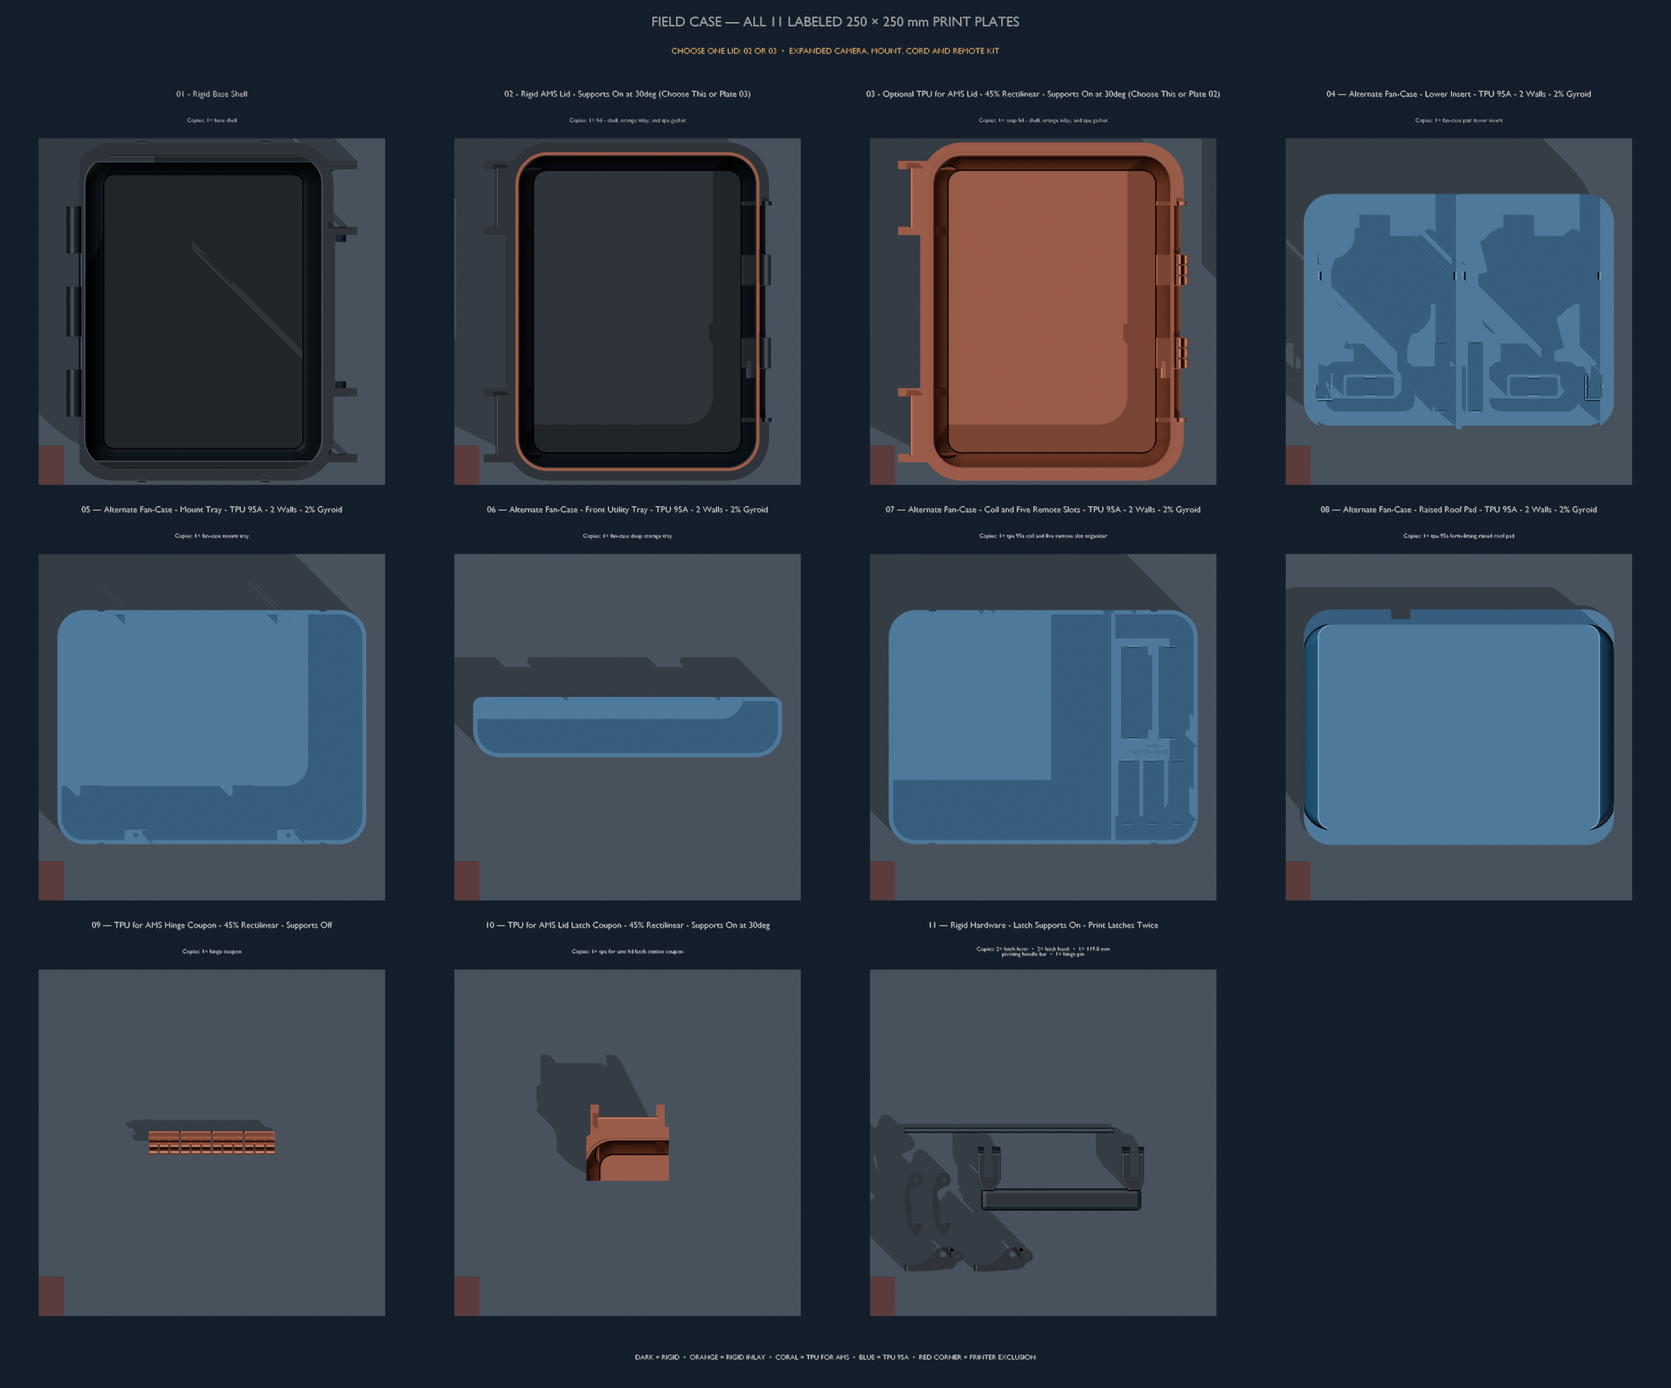
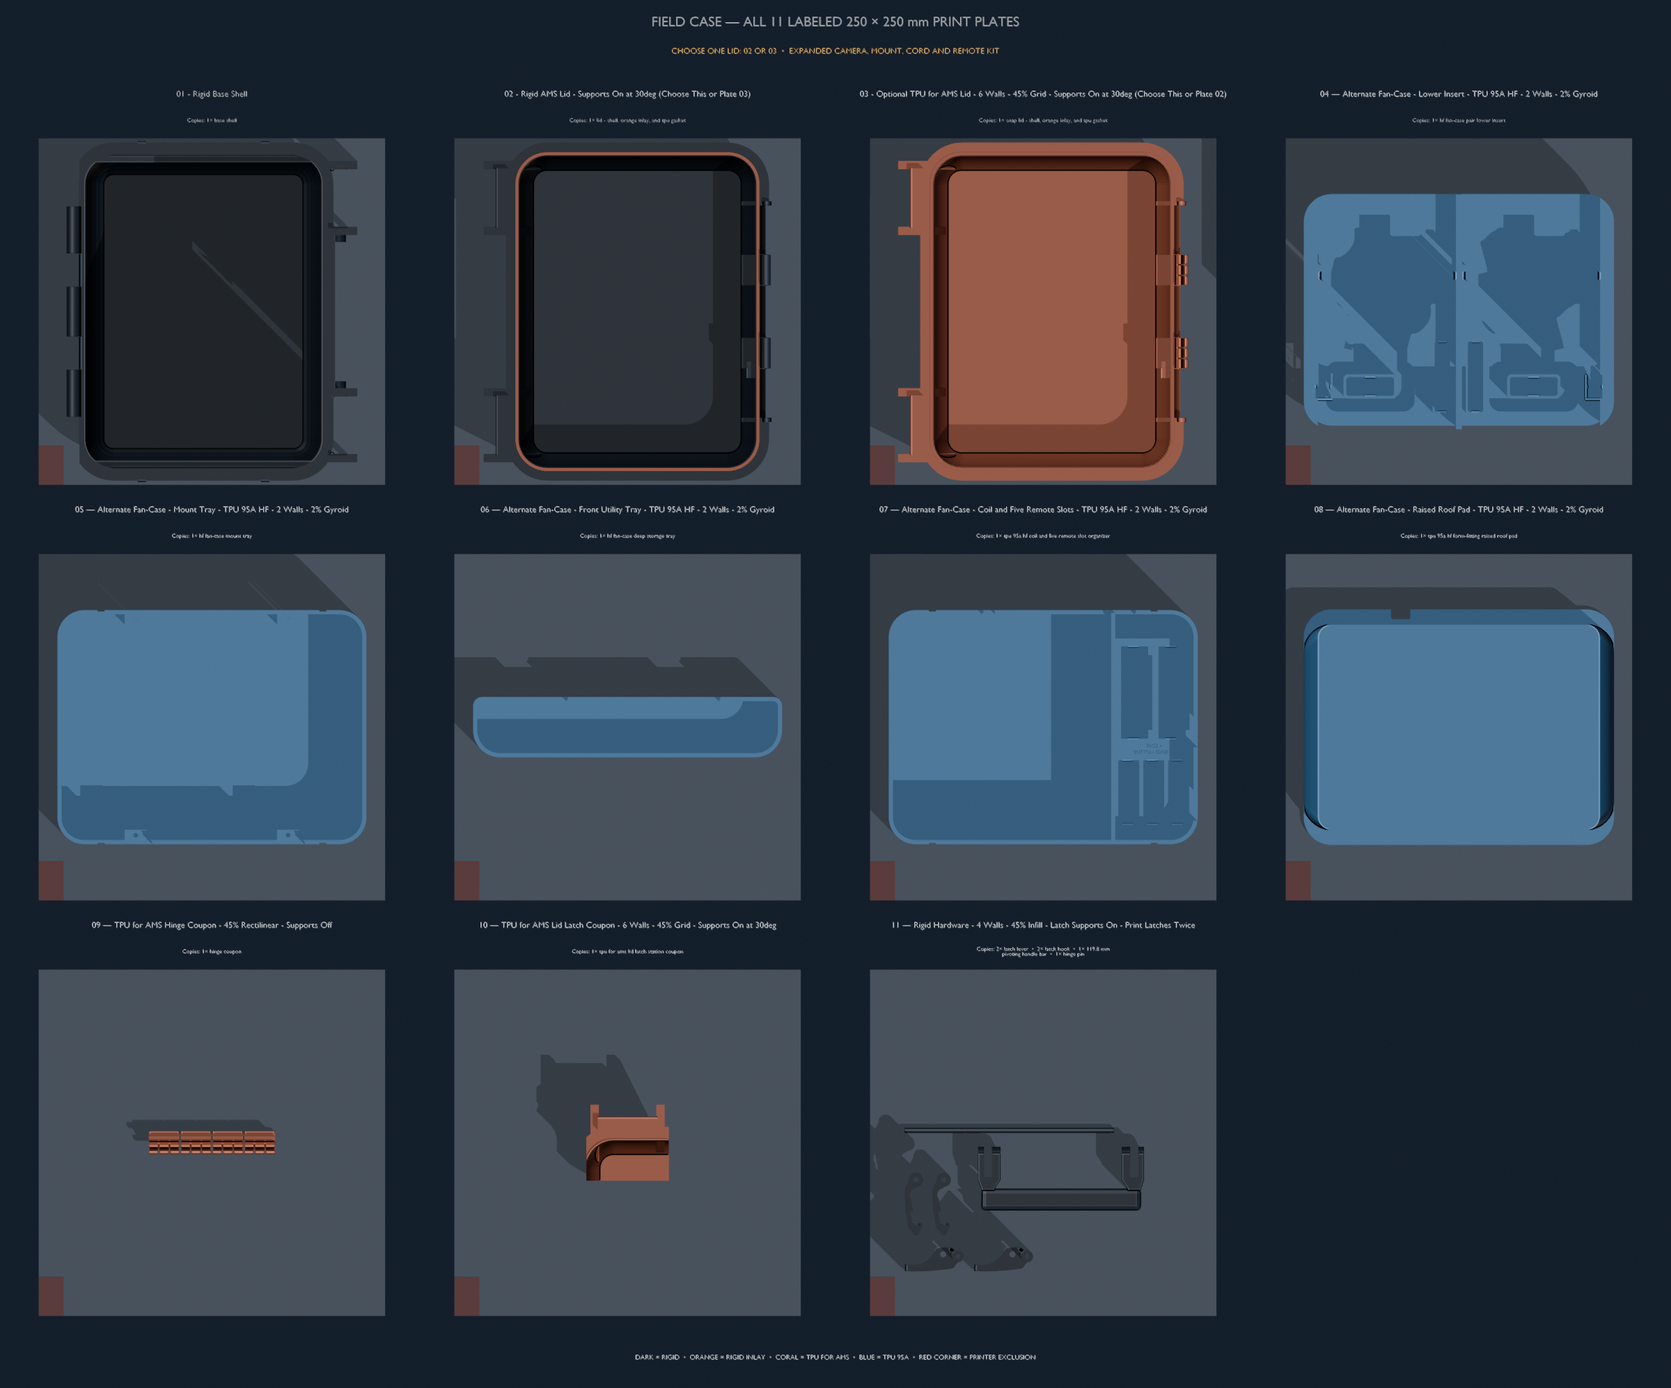
Update Mission 1 print material profiles

diff --git a/models3d/mission1-field-case/mission1_field_case_blender.py b/models3d/mission1-field-case/mission1_field_case_blender.py
@@ -16154,12 +16154,17 @@ THREE_MF_CONTENT_TYPES_NAMESPACE = (
 )
 BAMBU_PRINTER_SETTINGS_ID = "Bambu Lab P1S 0.4 nozzle"
 BAMBU_PROCESS_SETTINGS_ID = "0.20mm Standard @BBL X1C"
-BAMBU_RIGID_FILAMENT_SETTINGS_ID = "Bambu PETG Basic @BBL X1C"
+BAMBU_RIGID_FILAMENT_SETTINGS_ID = "Bambu PETG HF @BBL X1C"
 BAMBU_TPU_FOR_AMS_FILAMENT_SETTINGS_ID = "Bambu TPU for AMS @BBL P1P"
-BAMBU_TPU_95A_FILAMENT_SETTINGS_ID = "Bambu TPU 95A @BBL X1C"
+BAMBU_TPU_95A_FILAMENT_SETTINGS_ID = "Bambu TPU 95A HF @BBL X1C"
 TPU_FOR_AMS_EXTRUDER = 3
 TPU_95A_EXTRUDER = 4
-TPU_FOR_AMS_INFILL_SETTINGS = {
+TPU_FOR_AMS_LID_SETTINGS = {
+    "wall_loops": "6",
+    "sparse_infill_density": "45%",
+    "sparse_infill_pattern": "grid",
+}
+TPU_FOR_AMS_HINGE_COUPON_SETTINGS = {
     "sparse_infill_density": "45%",
     "sparse_infill_pattern": "rectilinear",
 }
@@ -16167,6 +16172,10 @@ TPU_95A_TRAY_SETTINGS = {
     "wall_loops": "2",
     "sparse_infill_density": "2%",
     "sparse_infill_pattern": "gyroid",
+}
+RIGID_HARDWARE_SETTINGS = {
+    "wall_loops": "4",
+    "sparse_infill_density": "45%",
 }
 SUPPORT_ENABLED_SETTINGS = {"enable_support": "1"}
 LID_SUPPORT_SETTINGS = {
@@ -16179,8 +16188,10 @@ LID_SUPPORT_SETTINGS = {
 }
 PROJECT_OBJECT_SETTING_KEYS = frozenset(
     {
-        *TPU_FOR_AMS_INFILL_SETTINGS,
+        *TPU_FOR_AMS_LID_SETTINGS,
+        *TPU_FOR_AMS_HINGE_COUPON_SETTINGS,
         *TPU_95A_TRAY_SETTINGS,
+        *RIGID_HARDWARE_SETTINGS,
         *LID_SUPPORT_SETTINGS,
     }
 )
@@ -17065,13 +17076,13 @@ def field_case_3mf_groups():
         tpu_lid_sources,
         tpu_lid_extruders,
         new_plate(
-            "03 - Optional TPU for AMS Lid - 45% Rectilinear - "
+            "03 - Optional TPU for AMS Lid - 6 Walls - 45% Grid - "
             "Supports On at 30deg "
             "(Choose This or Plate 02)"
         ),
         role="tpu_lid",
         process_overrides={
-            **TPU_FOR_AMS_INFILL_SETTINGS,
+            **TPU_FOR_AMS_LID_SETTINGS,
             **LID_SUPPORT_SETTINGS,
         },
         print_rotations={key: (0.0, 0.0, math.pi / 2.0) for key in tpu_lid_keys} if EXPANDED_ACCESSORY_STORAGE else {},
@@ -17088,59 +17099,59 @@ def field_case_3mf_groups():
 
     for plate_name, name, key, source_file in (
         (
-            "Default Loadout - Lower Dual-Fan Cradle - TPU 95A - 2 Walls - 2% Gyroid",
-            "Default TPU 95A Lower Dual-Fan Cradle",
+            "Default Loadout - Lower Dual-Fan Cradle - TPU 95A HF - 2 Walls - 2% Gyroid",
+            "Default TPU 95A HF Lower Dual-Fan Cradle",
             "fan_cradle",
             FAN_CRADLE_STL_NAME,
         ),
         (
-            "Default Loadout - Upper Equipment Tray - TPU 95A - 2 Walls - 2% Gyroid",
-            "Default TPU 95A Upper Equipment Tray",
+            "Default Loadout - Upper Equipment Tray - TPU 95A HF - 2 Walls - 2% Gyroid",
+            "Default TPU 95A HF Upper Equipment Tray",
             "equipment_tray",
             EQUIPMENT_TRAY_STL_NAME,
         ),
         (
-            "Default Loadout - Lid Retainer Pad - TPU 95A - 2 Walls - 2% Gyroid",
-            "Default TPU 95A Lid Retainer Pad",
+            "Default Loadout - Lid Retainer Pad - TPU 95A HF - 2 Walls - 2% Gyroid",
+            "Default TPU 95A HF Lid Retainer Pad",
             "lid_retainer",
             LID_RETAINER_STL_NAME,
         ),
         (
-            "Alternate Fan-Case - Lower Insert - TPU 95A - 2 Walls - 2% Gyroid",
-            "Alternate TPU 95A Fan-Case Pair Lower Insert",
+            "Alternate Fan-Case - Lower Insert - TPU 95A HF - 2 Walls - 2% Gyroid",
+            "Alternate TPU 95A HF Fan-Case Pair Lower Insert",
             "fan_case_pair_insert",
             FAN_CASE_PAIR_INSERT_STL_NAME,
         ),
         (
-            "Alternate Fan-Case - Mount Tray - TPU 95A - 2 Walls - 2% Gyroid"
+            "Alternate Fan-Case - Mount Tray - TPU 95A HF - 2 Walls - 2% Gyroid"
             if EXPANDED_ACCESSORY_STORAGE
-            else "Alternate Fan-Case - Key-Notched Rear Tray - TPU 95A - 2 Walls - 2% Gyroid",
-            "Alternate TPU 95A Fan-Case Mount Tray" if EXPANDED_ACCESSORY_STORAGE
-            else "Alternate TPU 95A Fan-Case Key-Notched Rear Tray",
+            else "Alternate Fan-Case - Key-Notched Rear Tray - TPU 95A HF - 2 Walls - 2% Gyroid",
+            "Alternate TPU 95A HF Fan-Case Mount Tray" if EXPANDED_ACCESSORY_STORAGE
+            else "Alternate TPU 95A HF Fan-Case Key-Notched Rear Tray",
             "fan_case_pair_carrier",
             FAN_CASE_PAIR_OVERHEAD_CARRIER_STL_NAME,
         ),
         (
-            "Alternate Fan-Case - Front Utility Tray - TPU 95A - 2 Walls - 2% Gyroid"
+            "Alternate Fan-Case - Front Utility Tray - TPU 95A HF - 2 Walls - 2% Gyroid"
             if EXPANDED_ACCESSORY_STORAGE
-            else "Alternate Fan-Case - Deep Storage Tray - TPU 95A - 2 Walls - 2% Gyroid",
-            "Alternate TPU 95A Fan-Case Deep Storage Tray",
+            else "Alternate Fan-Case - Deep Storage Tray - TPU 95A HF - 2 Walls - 2% Gyroid",
+            "Alternate TPU 95A HF Fan-Case Deep Storage Tray",
             "fan_case_pair_storage_bin",
             FAN_CASE_PAIR_STORAGE_BIN_STL_NAME,
         ),
         (
-            "Alternate Fan-Case - Coil and Five Remote Slots - TPU 95A - 2 Walls - 2% Gyroid",
-            "TPU 95A Coil and Five Remote Slot Organizer",
+            "Alternate Fan-Case - Coil and Five Remote Slots - TPU 95A HF - 2 Walls - 2% Gyroid",
+            "TPU 95A HF Coil and Five Remote Slot Organizer",
             "accessory_organizer",
             ACCESSORY_ORGANIZER_STL_NAME,
         ),
         (
-            "Alternate Fan-Case - Raised Roof Pad - TPU 95A - 2 Walls - 2% Gyroid"
+            "Alternate Fan-Case - Raised Roof Pad - TPU 95A HF - 2 Walls - 2% Gyroid"
             if LID_DOME_RISE
-            else "Alternate Fan-Case - 2 mm Lid Pad - TPU 95A - 2 Walls - 2% Gyroid",
-            "TPU 95A Form-Fitting Raised Roof Pad"
+            else "Alternate Fan-Case - 2 mm Lid Pad - TPU 95A HF - 2 Walls - 2% Gyroid",
+            "TPU 95A HF Form-Fitting Raised Roof Pad"
             if LID_DOME_RISE
-            else "Alternate TPU 95A Fan-Case 2 mm Lid Pad",
+            else "Alternate TPU 95A HF Fan-Case 2 mm Lid Pad",
             "fan_case_pair_lid_pad",
             FAN_CASE_PAIR_LID_PAD_STL_NAME,
         ),
@@ -17165,7 +17176,7 @@ def field_case_3mf_groups():
         (TPU_FOR_AMS_EXTRUDER,),
         new_plate("TPU for AMS Hinge Coupon - 45% Rectilinear - Supports Off"),
         role="tpu_for_ams_coupon",
-        process_overrides=TPU_FOR_AMS_INFILL_SETTINGS,
+        process_overrides=TPU_FOR_AMS_HINGE_COUPON_SETTINGS,
     )
     add_group(
         "TPU for AMS Lid Latch Station Coupon",
@@ -17173,16 +17184,19 @@ def field_case_3mf_groups():
         (TPU_LID_LATCH_COUPON_STL_NAME,),
         (TPU_FOR_AMS_EXTRUDER,),
         new_plate(
-            "TPU for AMS Lid Latch Coupon - 45% Rectilinear - "
+            "TPU for AMS Lid Latch Coupon - 6 Walls - 45% Grid - "
             "Supports On at 30deg"
         ),
         role="tpu_lid_coupon",
         process_overrides={
-            **TPU_FOR_AMS_INFILL_SETTINGS,
+            **TPU_FOR_AMS_LID_SETTINGS,
             **LID_SUPPORT_SETTINGS,
         },
     )
-    hardware_plate = new_plate("Rigid Hardware - Latch Supports On - Print Latches Twice")
+    hardware_plate = new_plate(
+        "Rigid Hardware - 4 Walls - 45% Infill - Latch Supports On - "
+        "Print Latches Twice"
+    )
     for name, key, source_file, copies, copy_offsets in (
         (
             "Pelican Latch Lever - Print Two",
@@ -17224,10 +17238,18 @@ def field_case_3mf_groups():
             hardware_plate,
             copies=copies,
             copy_offsets=copy_offsets,
-            process_overrides=(
-                SUPPORT_ENABLED_SETTINGS
+            role=(
+                "rigid_latch"
                 if key in {"latch_lever", "latch_hook"}
-                else None
+                else "rigid_handle" if key == "handle_bar" else None
+            ),
+            process_overrides=(
+                {
+                    **RIGID_HARDWARE_SETTINGS,
+                    **SUPPORT_ENABLED_SETTINGS,
+                }
+                if key in {"latch_lever", "latch_hook"}
+                else RIGID_HARDWARE_SETTINGS if key == "handle_bar" else None
             ),
         )
     return groups, tuple(plate_names)
@@ -17855,7 +17877,7 @@ def validate_3mf_project(path: Path) -> None:
                     f"TPU 95A tray object {object_id} has an incorrect filament"
                 )
         if group["role"] == "tpu_for_ams_coupon":
-            if overrides != TPU_FOR_AMS_INFILL_SETTINGS:
+            if overrides != TPU_FOR_AMS_HINGE_COUPON_SETTINGS:
                 raise ValueError(
                     "TPU for AMS hinge coupon must use 45% rectilinear infill "
                     "with supports disabled"
@@ -17864,26 +17886,41 @@ def validate_3mf_project(path: Path) -> None:
                 raise ValueError("TPU for AMS hinge coupon has an incorrect filament")
         if group["role"] == "tpu_lid":
             expected = {
-                **TPU_FOR_AMS_INFILL_SETTINGS,
+                **TPU_FOR_AMS_LID_SETTINGS,
                 **LID_SUPPORT_SETTINGS,
             }
             if overrides != expected:
                 raise ValueError(
-                    "TPU for AMS lid must use 45% rectilinear infill and supports"
+                    "TPU for AMS lid must use 6 walls, 45% grid infill, and supports"
                 )
         if group["role"] == "tpu_lid_coupon":
             expected = {
-                **TPU_FOR_AMS_INFILL_SETTINGS,
+                **TPU_FOR_AMS_LID_SETTINGS,
                 **LID_SUPPORT_SETTINGS,
             }
             if overrides != expected:
                 raise ValueError(
-                    "TPU lid-latch coupon must use 45% rectilinear infill and "
-                    "30-degree supports"
+                    "TPU lid-latch coupon must use 6 walls, 45% grid infill, "
+                    "and 30-degree supports"
                 )
             if group["extruders"] != (TPU_FOR_AMS_EXTRUDER,):
                 raise ValueError(
                     "TPU lid-latch coupon has an incorrect filament"
+                )
+        if group["role"] == "rigid_latch":
+            expected = {
+                **RIGID_HARDWARE_SETTINGS,
+                **SUPPORT_ENABLED_SETTINGS,
+            }
+            if overrides != expected:
+                raise ValueError(
+                    "Rigid latch pieces must use 4 walls, 45% sparse infill, "
+                    "and supports"
+                )
+        if group["role"] == "rigid_handle":
+            if overrides != RIGID_HARDWARE_SETTINGS:
+                raise ValueError(
+                    "Rigid handle must use 4 walls and 45% sparse infill"
                 )
     if {node.get("id") for node in settings_parts} != set(expected_parts):
         raise ValueError("3MF model settings describe incorrect mesh parts")
@@ -18067,7 +18104,8 @@ def validate_3mf_project(path: Path) -> None:
         f"gasket_with_lid={str(PRINT_TPU_GASKET_WITH_LID).lower()} "
         f"beam_interlock={project_settings['interlocking_beam']} "
         f"build_items={len(build_items)} extruders={','.join(sorted(extruders))} "
-        f"hard_tpu=45%_rectilinear soft_tpu=2_walls_2%_gyroid "
+        f"tpu_lid=6_walls_45%_grid hinge_coupon=45%_rectilinear "
+        f"soft_tpu_hf=2_walls_2%_gyroid rigid_hardware=4_walls_45% "
         f"support_objects={len(support_object_ids)}"
     )
 

diff --git a/models3d/mission1-field-case/mission1_field_case_printing.md b/models3d/mission1-field-case/mission1_field_case_printing.md
@@ -417,11 +417,13 @@ second file. Both standalone trays print flat-floor-down, open-side-up, in the
 3MF and their STL exports. All installed inserts are normalized to Z = 0,
 and validation rejects any out-of-bed or mutually overlapping plate placement.
 
-The 3MF declares four filament slots: black PETG, orange PETG,
-`Bambu TPU for AMS @BBL P1P`, and `Bambu TPU 95A @BBL X1C`. The optional TPU
+The 3MF declares four filament slots: black and orange
+`Bambu PETG HF @BBL X1C`, `Bambu TPU for AMS @BBL P1P`, and
+`Bambu TPU 95A HF @BBL X1C`. The optional TPU
 lid, gasket, hinge coupon, and lid-latch coupon use the TPU-for-AMS slot. Every internal tray and
 pad uses the TPU 95A slot with object overrides for **2 wall loops and 2% gyroid
-infill**. Load the soft TPU 95A from the external spool or another supported
+infill**. The latch lever, latch hook, and handle use **4 wall loops and 45%
+sparse infill**. Load the soft TPU 95A HF from the external spool or another supported
 manual workflow instead of an unsupported AMS path.
 
 Open `models3d/mission1-field-case/compact/mission1_field_case_ams_project.3mf` as a
@@ -900,9 +902,10 @@ the lid. Each coupon bank reproduces all three 6.53 mm clips, their 1.2 mm gaps,
 and the continuous shared root spine. The reinforced plate-to-barrel root,
 9.6 mm arc, blunt mouth, and exported print orientation match the lid through
 the same construction helper. Test progressive snapping, repeated opening, and
-removal on each complete bank. Print the lid and coupon at the project
-0.20 mm layer height with **45% rectilinear infill**. Supports are enabled for
-the lid and disabled for the coupon. Choose the smallest throat
+removal on each complete bank. Print the lid at the project 0.20 mm layer
+height with **6 wall loops and 45% grid infill**. The hinge coupon retains
+**45% rectilinear infill**. Supports are enabled for the lid and disabled for
+the hinge coupon. Choose the smallest throat
 that snaps repeatedly without whitening, cracking, or requiring excessive
 force, then set `TPU_HINGE_SNAP_THROAT_WIDTH` to that value if it differs from
 3.5 mm. The 3.8 mm bank is a clearance control for the nominal 3.8 mm rod; the
@@ -918,8 +921,8 @@ the compact lid and coupon, the outer protector's own profile continues
 caseward across the rounded soft edge into the bed-level crown. Both coupons
 also include the molded bay, load ledge, capture rail, and side webs. The
 existing production latch hook fits the unchanged rail and ledge. Print the
-coupon crown-down with TPU for AMS, **45% rectilinear infill**, supports
-enabled, and the same **30-degree support threshold** as the full lid.
+coupon crown-down with Bambu TPU for AMS, **6 wall loops and 45% grid infill**,
+supports enabled, and the same **30-degree support threshold** as the full lid.
 
 ![Compact TPU lid latch-station coupon in print, hook-fit, and outer-protector side views](renderings/mission1_tpu_lid_latch_coupon_compact.png)
 
@@ -934,24 +937,21 @@ the selected lid is complete.
 
 ## Suggested printing
 
-- Base, lid, broad latch levers, handle bar, and hinge pin: PETG, ASA, nylon,
-  or another impact-tolerant rigid filament; 0.20 mm layers, four walls, and at
-  least 25% infill.
-- The upper moving latch hooks may be printed in hard TPU. Use the stiffest TPU
-  your printer handles reliably, at least five walls, and high infill around
-  the flat bearing pad, round retention boss, and link-pivot end. Soft 95A
-  tray-style settings are not recommended for this load-bearing part.
-- Lower fan cradle, upper equipment tray, and lid pad: TPU 95A, **2 wall loops
-  and 2% gyroid infill**.
+- Base, rigid lid, latch pieces, handle bar, and hinge pin: Bambu PETG HF. The
+  latch lever, latch hook, and handle use **4 wall loops and 45% sparse
+  infill**. The lever and hook have supports enabled; the base, rigid handle,
+  and hinge pin remain support-free.
+- Lower fan cradle, upper equipment tray, and lid pad: Bambu TPU 95A HF,
+  **2 wall loops and 2% gyroid infill**.
 - Alternate fan-case lower cradle, rear shallow tray, front deep tray,
-  and lid pad: TPU 95A with **2 wall loops and 2% gyroid infill**. Keep the PWM
+  and lid pad: Bambu TPU 95A HF with **2 wall loops and 2% gyroid infill**. Keep the PWM
   dock nubs flexible; do not fill
   the plug channels with support. Print both standalone trays flat-floor-down
   and open-side-up; neither has feet or long lid-mounted projections.
-- Optional snap-on lid and hinge coupon: Bambu TPU for AMS, 0.20 mm layers and
-  **45% rectilinear infill**. Print the coupon first with the same material and
-  infill; the lid has supports enabled with a 30-degree threshold while the
-  coupon remains support-free.
+- Optional snap-on lid: Bambu TPU for AMS, 0.20 mm layers, **6 wall loops, and
+  45% grid infill**. Its latch-station coupon uses the same profile. Both have
+  supports enabled with a 30-degree threshold. The separate hinge coupon uses
+  the same material with **45% rectilinear infill** and remains support-free.
 - Gasket: relatively hard TPU with a 0.4 mm nozzle and 0.20 mm layers. The air
   channel is modeled into the STL, so do not enable support or gap filling in
   that closed void. The gasket is for dust and splash resistance, not certified

diff --git a/models3d/mission1-field-case/mission1_expanded_case_printing.md b/models3d/mission1-field-case/mission1_expanded_case_printing.md
@@ -93,8 +93,9 @@ Before reprinting a complete TPU lid, print
 38.8 mm** exact crop of the production TPU lid contains one complete left
 latch station: its inner and outer protector, rounded crown-to-corner shoulder,
 the outer protector's tapered crown return, deep molded bay, load ledge, capture
-rail, and side webs. It prints crown-down in TPU for AMS with **45% rectilinear
-infill** and the same **30-degree support threshold** as the complete lid. The
+rail, and side webs. It prints crown-down in Bambu TPU for AMS with **6 wall
+loops, 45% grid infill**, and the same **30-degree support threshold** as the
+complete lid. The
 existing latch hook seats on the coupon's unchanged production rail and ledge,
 so the small print checks protector surface quality and latch fit before
 committing to the full lid.
@@ -286,10 +287,12 @@ any particular printer's dimensional error.
 
 ## Printing and hardware
 
-Use rigid PETG or another tough rigid filament for the shell and chosen rigid
-lid. Every internal tray—the lower insert, mount tray, front utility bin,
+Every rigid project object is assigned to `Bambu PETG HF @BBL X1C`. The latch
+lever, latch hook, and handle have object overrides for **4 wall loops and 45%
+sparse infill**; supports remain enabled only for the lever and hook. Every
+internal tray—the lower insert, mount tray, front utility bin,
 remote organizer, and raised roof pad—is assigned to
-`Bambu TPU 95A @BBL X1C` with **2 wall loops and 2% gyroid infill**. Load this
+`Bambu TPU 95A HF @BBL X1C` with **2 wall loops and 2% gyroid infill**. Load this
 soft TPU from the external spool or another supported manual workflow instead
 of an unsupported AMS path. The trays print floor down; their air passages
 have 45° roofs and retain the required floor above them.
@@ -306,9 +309,11 @@ separate retainer STL or extra retainer plate; the complete project contains
 16 unique STLs on 11 plates.
 
 The optional snap lid, hinge coupon, and lid-latch coupon use
-`Bambu TPU for AMS @BBL P1P` with **45% rectilinear infill**. Supports are
-enabled for the lid-latch coupon and complete lid, and disabled for the hinge
-coupon. The rigid lid alternative also has per-object supports enabled. Both
+`Bambu TPU for AMS @BBL P1P`. The lid and exact-crop latch coupon use **6 wall
+loops and 45% grid infill**; the hinge coupon retains **45% rectilinear
+infill**. Supports are enabled for the lid-latch coupon and complete lid, and
+disabled for the hinge coupon. The rigid lid alternative also has per-object
+supports enabled. Both
 lids and the latch coupon use a 30-degree support threshold; the outer
 protectors use tapered crown-down feet and continuous returns that follow the
 rounded lid shoulder through the rim. This removes the open side gap while
